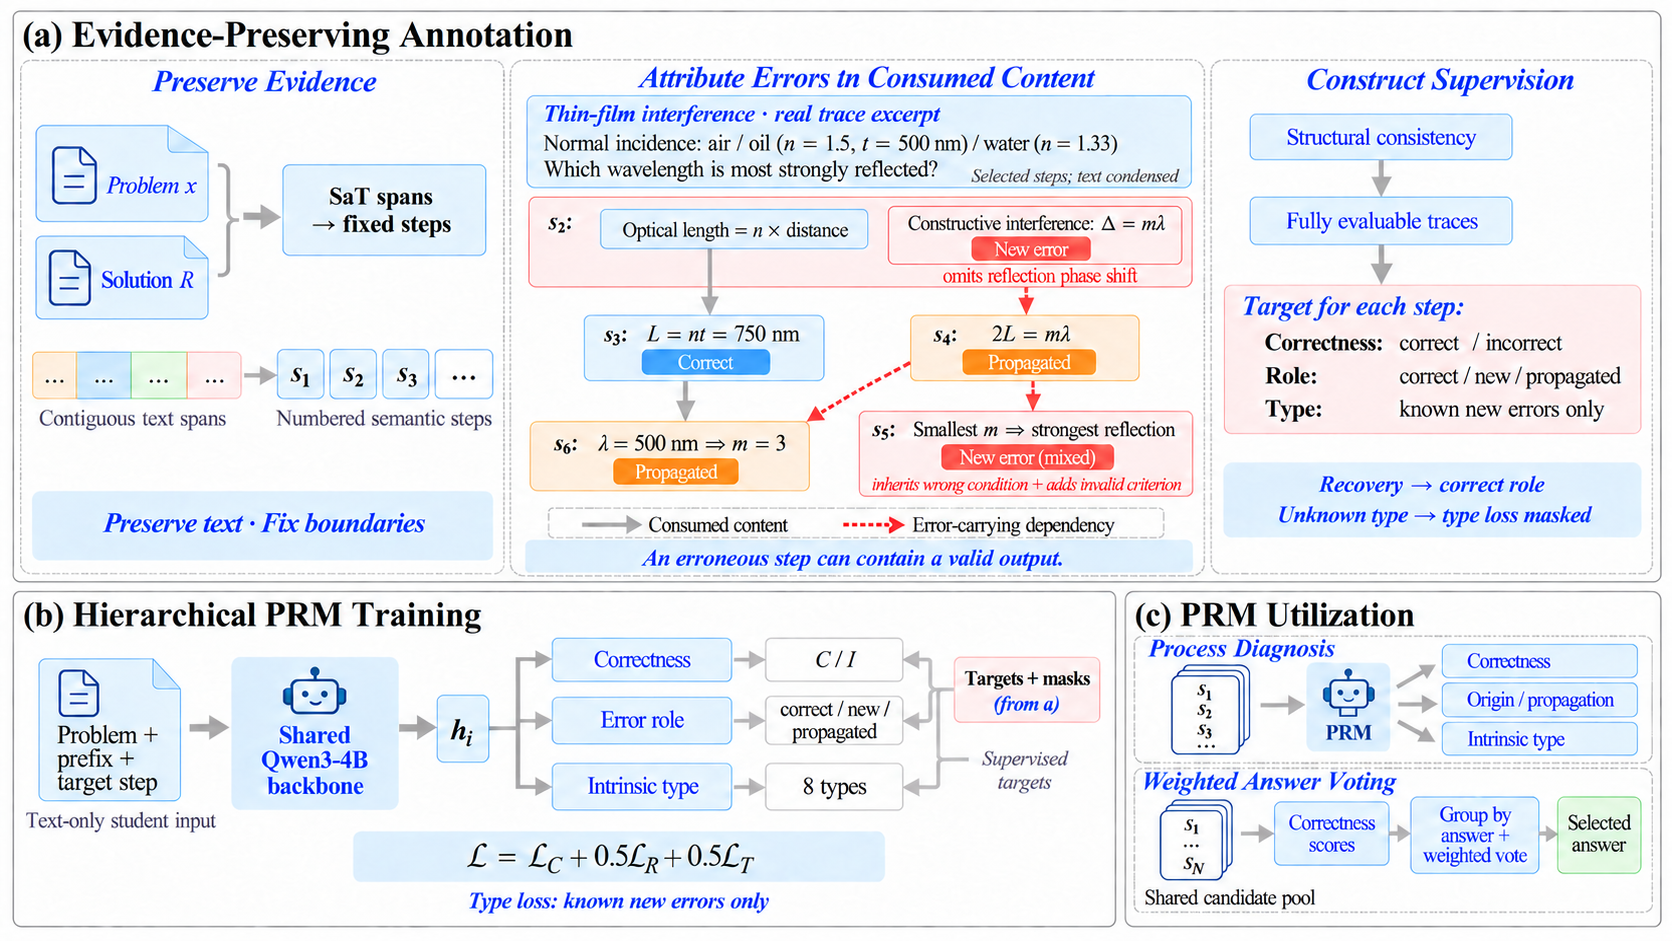
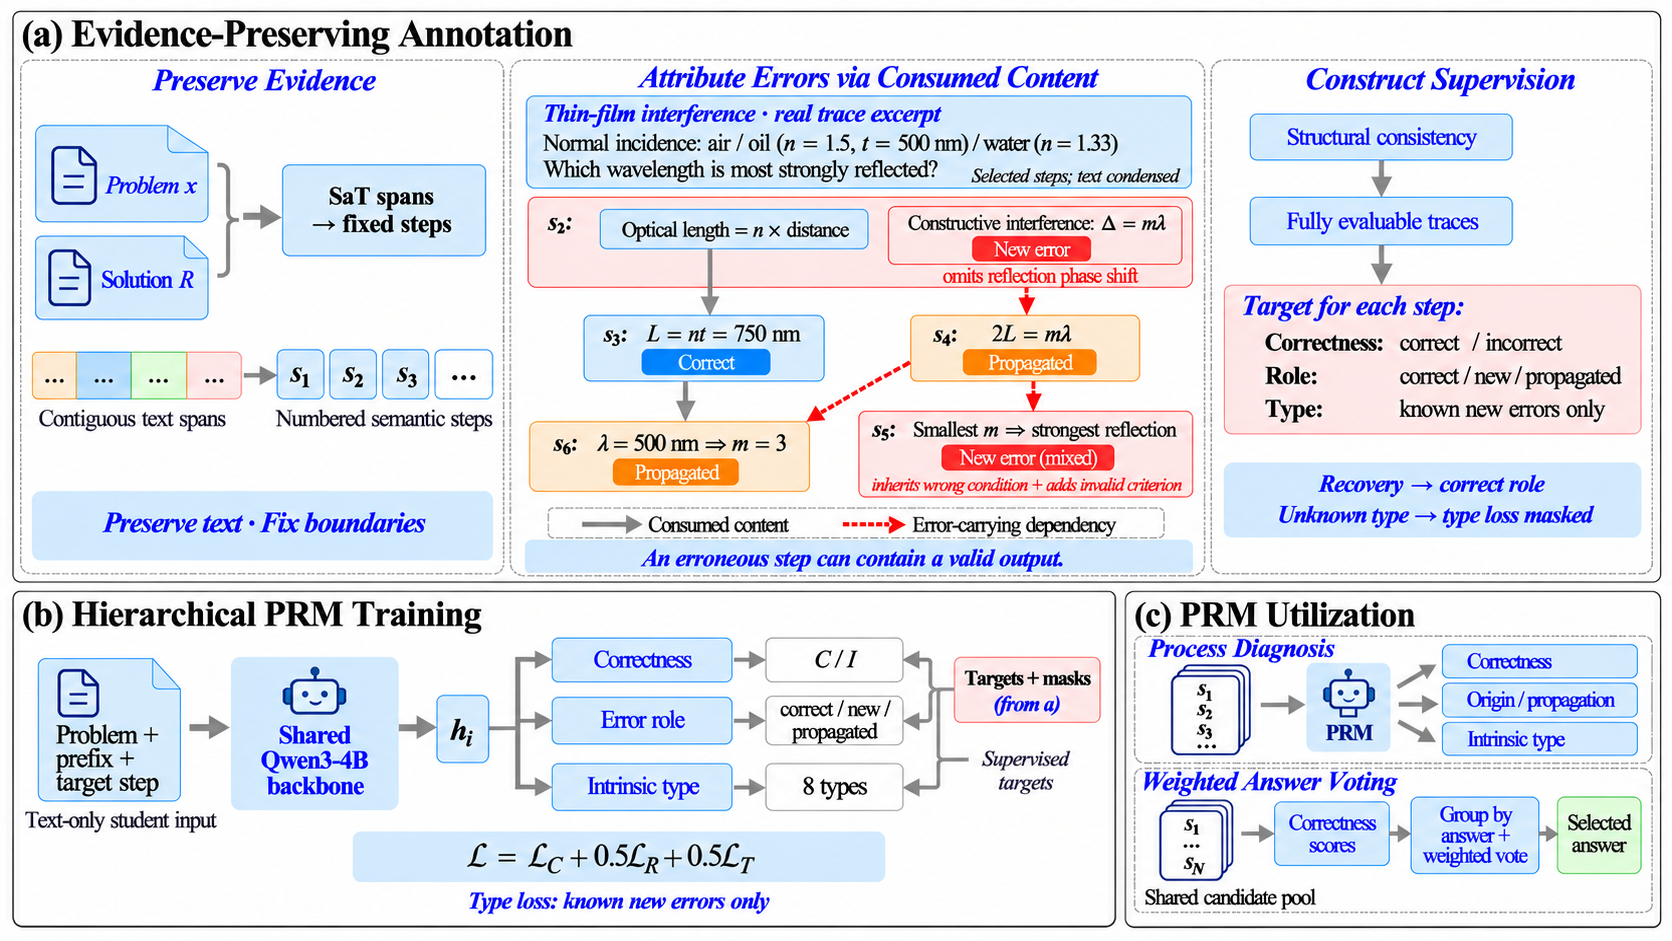
Improve method figure clarity and add full-size viewing link

diff --git a/README.md b/README.md
@@ -32,6 +32,8 @@ answer voting and training-data selection.
 
 ![Method overview: consumed-input attribution, hierarchical supervision, and process scoring](assets/method_overview.png)
 
+[View the full-size figure](https://github.com/MKR640/dependency-process-supervision/raw/refs/heads/main/assets/method_overview.png)
+
 *Figure 1 from the paper. Input-output dependencies provide evidence for error
 attribution and determine the supervision assigned to each step.*
 
